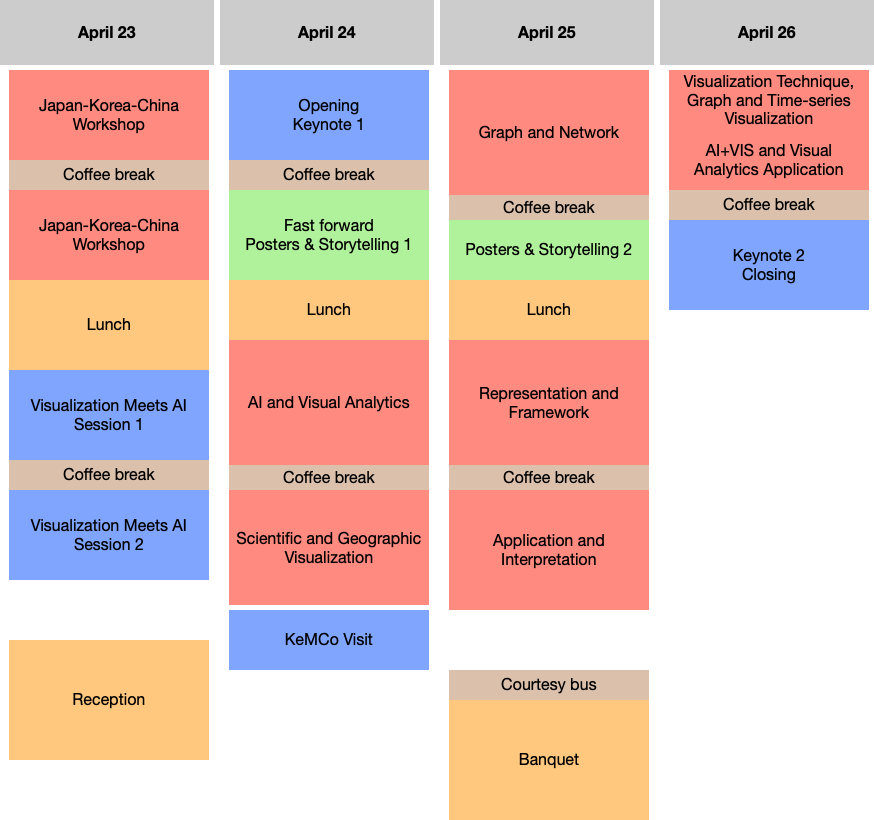
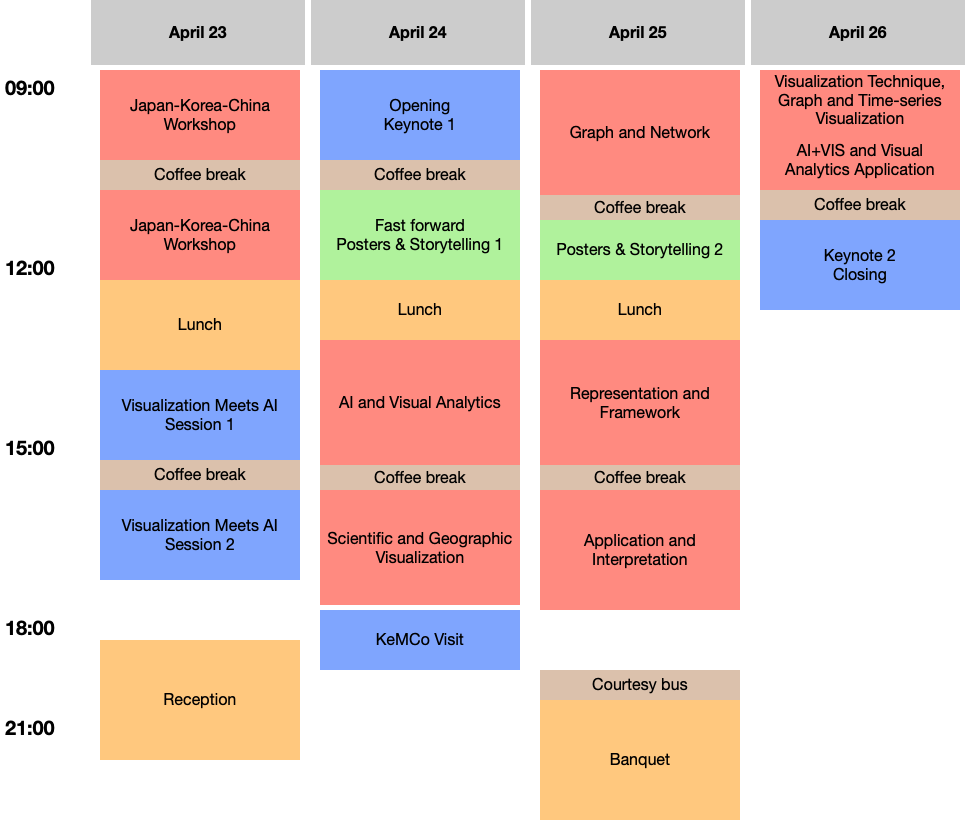
news += program, alpha

diff --git a/docs/index.html b/docs/index.html
@@ -188,6 +188,7 @@
 <h2 id="news">News</h2>
 
 <ul>
+  <li>The program for PacificVis 2024 has been released. (2024-03-21)</li>
   <li>Keynote 2 on April 26 (Fri) by Prof. Bongshin Lee (Yonsei University) on “<em>Human-Data Interaction: Data Visualization and Beyond</em>” (<a href="/pvis2024/program/keynote/#bongshin_lee">more …</a>) is added. (2024-03-06)</li>
   <li><a href="/pvis2024/papers/visxai/">The list of accepted papers for Visualization Meets AI Workshop</a> is added. (2024-02-28)</li>
   <li>Keynote 1 on April 24 (Wed) by Prof. Huamin Qu (Hong Kong University of Science and Technology) on “<em>Design Guidelines and Human-AI Collaboration for Data Storytelling</em>”.  (<a href="/pvis2024/program/keynote/#huamin_qu">more …</a>) (2024-02-27)</li>

diff --git a/pages/index.md b/pages/index.md
@@ -9,6 +9,7 @@ IEEE 17th Pacific Visualization Conference (PacificVis 2024) will be hosted by [
 
 ## News
 
+- The program for PacificVis 2024 has been released. (2024-03-21)
 - Keynote 2 on April 26 (Fri) by Prof. Bongshin Lee (Yonsei University) on "*Human-Data Interaction: Data Visualization and Beyond*" ([more ...](/pvis2024/program/keynote/#bongshin_lee)) is added. (2024-03-06)
 - [The list of accepted papers for Visualization Meets AI Workshop](/pvis2024/papers/visxai/) is added. (2024-02-28)
 - Keynote 1 on April 24 (Wed) by Prof. Huamin Qu (Hong Kong University of Science and Technology) on "*Design Guidelines and Human-AI Collaboration for Data Storytelling*".  ([more ...](/pvis2024/program/keynote/#huamin_qu)) (2024-02-27)
